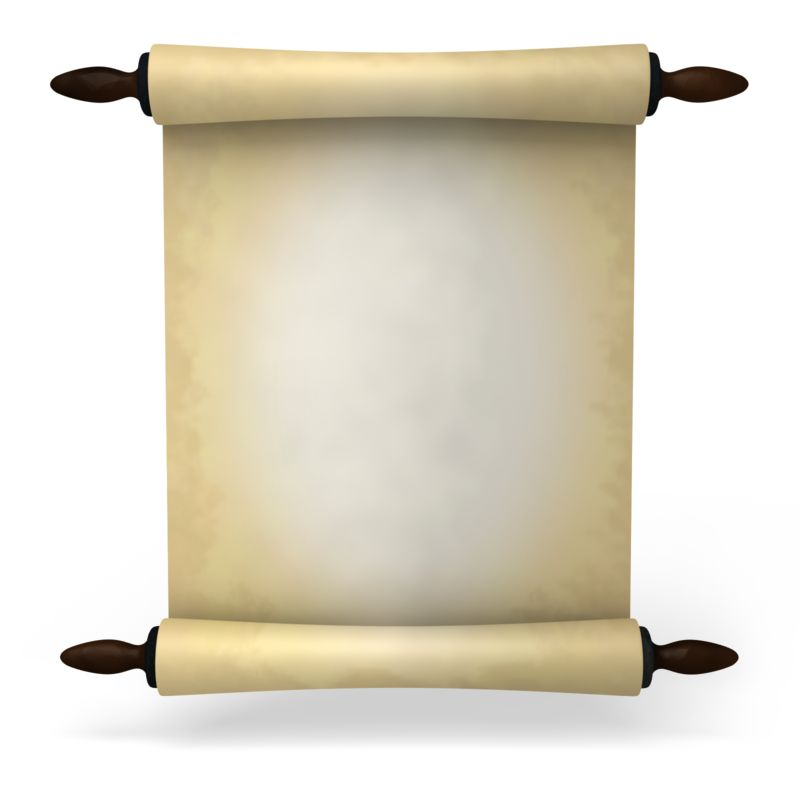
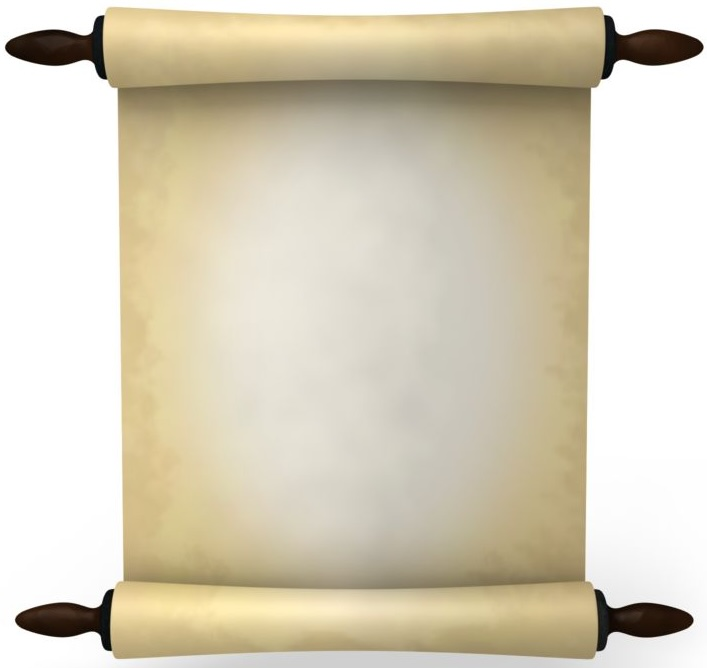
Updated Scroll Maker

diff --git a/docs/tools/scrollmaker.html b/docs/tools/scrollmaker.html
@@ -29,51 +29,35 @@
                 <h4 class="s12">Scroll Maker</h4>
                 <div class="s12">
                     <div id="toolbar"></div>
-                    <div id="editor"></div>
+                    <div id="editor">
+                    </div>
                 </div>
 
                 <div class="s12 grid">
-                    <button class="s2 border square round extra" style="height: 110px; width: 110px;" onclick="changeImage(scroll1, 120, 90, 315)">
-                        <canvas id="scroll1"></canvas>
-                    </button>
+                    <image class="s2 border square round extra" src="scroll1.png" style="height: 110px; width: 110px;" onclick="changeImage('scroll1.png', 0.160, 0.170, 0.650)" />
 
-                    <button class="s2 border square round extra" style="height: 110px; width: 110px;" onclick="changeImage(scroll2, 100, 100, 315)">
-                        <canvas id="scroll2"></canvas>
-                    </button>
+                    <image class="s2 border square round extra" src="scroll2.jpg" style="height: 110px; width: 110px;" onclick="changeImage('scroll2.jpg', 0.160, 0.150, 0.700)" />
 
-                    <button class="s2 border square round extra" style="height: 110px; width: 110px;" onclick="changeImage(scroll3, 100, 120, 265)">
-                        <canvas id="scroll3"></canvas>
-                    </button>
+                    <image class="s2 border square round extra" src="scroll3.jpg" style="height: 110px; width: 110px;" onclick="changeImage('scroll3.jpg', 0.170, 0.200, 0.620)" />
 
-                    <button class="s2 border square round extra" style="height: 110px; width: 110px;" onclick="changeImage(scroll4, 90, 100, 290)">
-                        <canvas id="scroll4"></canvas>
-                    </button>
+                    <image class="s2 border square round extra" src="scroll4.jpg" style="height: 110px; width: 110px;" onclick="changeImage('scroll4.jpg', 0.170, 0.200, 0.610)" />
+
+                    <image class="s2 border square round extra" src="scroll5.jpg" style="height: 110px; width: 110px;" onclick="changeImage('scroll5.jpg', 0.170, 0.140, 0.740)" />
+
+                    <image class="s2 border square round extra" src="scroll6.jpg" style="height: 110px; width: 110px;" onclick="changeImage('scroll6.jpg', 0.200, 0.200, 0.650)" />
+
+                    <image class="s2 border square round extra" src="scroll7.jpg" style="height: 110px; width: 110px;" onclick="changeImage('scroll7.jpg', 0.140, 0.200, 0.620)" />
+
                 </div>
 
                 <div class="s12 grid">
                     <div class="s6 field label border fill">
-                        <input type="number" id="height" value="500" onchange="buildCanvas()" />
+                        <input type="number" id="height" value="700" onchange="buildCanvas()" />
                         <label>Scroll Height</label>
                     </div>
                     <div class="s6 field label border fill">
                         <input type="number" id="width" value="500" onchange="buildCanvas()" />
                         <label>Scroll Width</label>
-                    </div>
-
-                    <div class="s3 field label border fill">
-                        <input type="number" id="topmargin" value="120" onchange="buildCanvas()"/>
-                        <label>Top Margin</label>
-                    </div>
-                    
-                    <div class="s3 field label border fill">
-                        <input type="number" id="leftmargin" value="90" onchange="buildCanvas()"/>
-                        <label>Left Margin</label>
-                    </div>
-
-                    
-                    <div class="s3 field label border fill">
-                        <input type="number" id="divwidth" value="90" onchange="buildCanvas()"/>
-                        <label>Width</label>
                     </div>
                 </div>
 

diff --git a/docs/tools/mkcanvas.js b/docs/tools/mkcanvas.js
@@ -1,21 +1,18 @@
-var background = scroll1;
+var background = 'scroll1.png';
+var mtop = 0.160;
+var mleft = 0.170;
+var mwidth = 0.650;
 var quill;
 
 function changeImage(imgUrl, top, left, width) {
     background = imgUrl;
-    document.getElementById("topmargin").value = top;
-    document.getElementById("leftmargin").value = left;
-    document.getElementById("divwidth").value = width;
+    mtop = top;
+    mleft = left;
+    mwidth = width;
     buildCanvas();
 }
 
 function buildThumbnails() {
-    const height = 100;
-    const width = 100;
-    buildThumbnail(height, width, "scroll1", scroll1);
-    buildThumbnail(height, width, "scroll2", scroll2);
-    buildThumbnail(height, width, "scroll3", scroll3);
-    buildThumbnail(height, width, "scroll4", scroll4);
     buildEditor();
     buildCanvas();
 }
@@ -71,20 +68,21 @@ function buildCanvas() {
     var imagebox = document.getElementById("imagebox");
     var height = document.getElementById("height").value;
     var width = document.getElementById("width").value;
-    var top = document.getElementById("topmargin").value;
-    var left = document.getElementById("leftmargin").value;
-    var divwidth = document.getElementById("divwidth").value;
+    var ptop = height * mtop;
+    var pleft = width * mleft;
+    var pwidth = width * mwidth;
+
     imagebox.style.backgroundImage = "url('" + background + "')";
     imagebox.style.backgroundRepeat = "no-repeat";
     imagebox.style.backgroundSize = "100% 100%";
     imagebox.style.height = height + "px";
     imagebox.style.width = width + "px";
-    imagebox.style.paddingTop = top + "px";
-    imagebox.style.paddingLeft = left + "px";
+    imagebox.style.paddingTop = ptop + "px";
+    imagebox.style.paddingLeft = pleft + "px";
 
     var msg = quill.getSemanticHTML();
     var sandbox = document.getElementById("sandbox");
-    sandbox.style.maxWidth = divwidth + "px";
+    sandbox.style.maxWidth = pwidth + "px";
     sandbox.innerHTML = msg.replace(/&nbsp;/g, " ");
 }
 

diff --git a/docs/_posts/2026-03-22-session-56.md b/docs/_posts/2026-03-22-session-56.md
@@ -1,0 +1,25 @@
+---
+layout: post
+title:  "Session 56 - Bureaucrats.  Who needs em?"
+date:   2026-03-22 15:13:39 +1100
+categories: jekyll update
+---
+# We've all been to a lecture like this
+
+The party is attending a lecture while trying to pay attention to a lecture in the room across the corridor, when a riot breaks out.  The party is carried away by the crush of people.
+
+It drags us to Free Market Square where we observe Slimy McLawyer-Face offering cash to poor people for their flesh rights.  They are surrounded by a ring of Helmed Horrors, facing outward, holding back a larger circle of screaming rioters.  While we watch, another taker makes his way through the crowd.
+
+Nobody in the party was completely sure what Ethan wanted us to do.  No laws were being broken, and Rusty wasn't even sure what the issue was.  What do you care what happens to your corpse after you die? (Given that resurrection is not possible here). As long as the new rights owners aren't actively bumping off their clients, it's all good.  Whatever.
+
+# Horus is a sneaky bastard
+
+We are interrupted by a Skyrim commoner with a fanny pack, who gives Wit a letter.  Ethan tries to give us a clue by saying that the seal was a bit funny, which sends Wit down a whole "booby-trap" rabbit hole.  Horus is no longer distracted by rabbit holes, though, and along with Cleetus corner the delivery guy, and extract a confession from him that he is spying on the mail.  Not all the mail - just the mail from the Municipal Records Office.  He's being paid by Dr Anja Cross.  We've got him over a barrel, and Horus manages to turn the intelligence asset over to our cause, creating a double agent for us.  Once what happened is explained to Rusty, he resolves to be much more careful with information security around Horus - that guy is sneakier than he was as a rabbit.
+
+Oh right - the letter.  The seal was funky because Mr Skyrim was spying on it.  Inside was a blank sheet of paper, which Rusty and Wit instantly recognised as a lemon juice steganographic cipher.  Louie was excited to finally be able to use his candle which he's been carrying around for several years.  The letter was from Otto at the Municipal Records office, 
+
+In the meantime, Louie the small frog is challenged to an arm wrestling contest by a Duergar called GarGar.  After the contest was concluded, it was revealed that GarGar was the local arm wrestling champion, but no longer - he was effortlessly crushed by Louie, who was simultaneously poisoning GarGar (no gloves allowed) while wearing a Belt of Storm Giant Strength.
+
+# At the Records Office
+
+We proceed to the records office, where we meet Otto.
